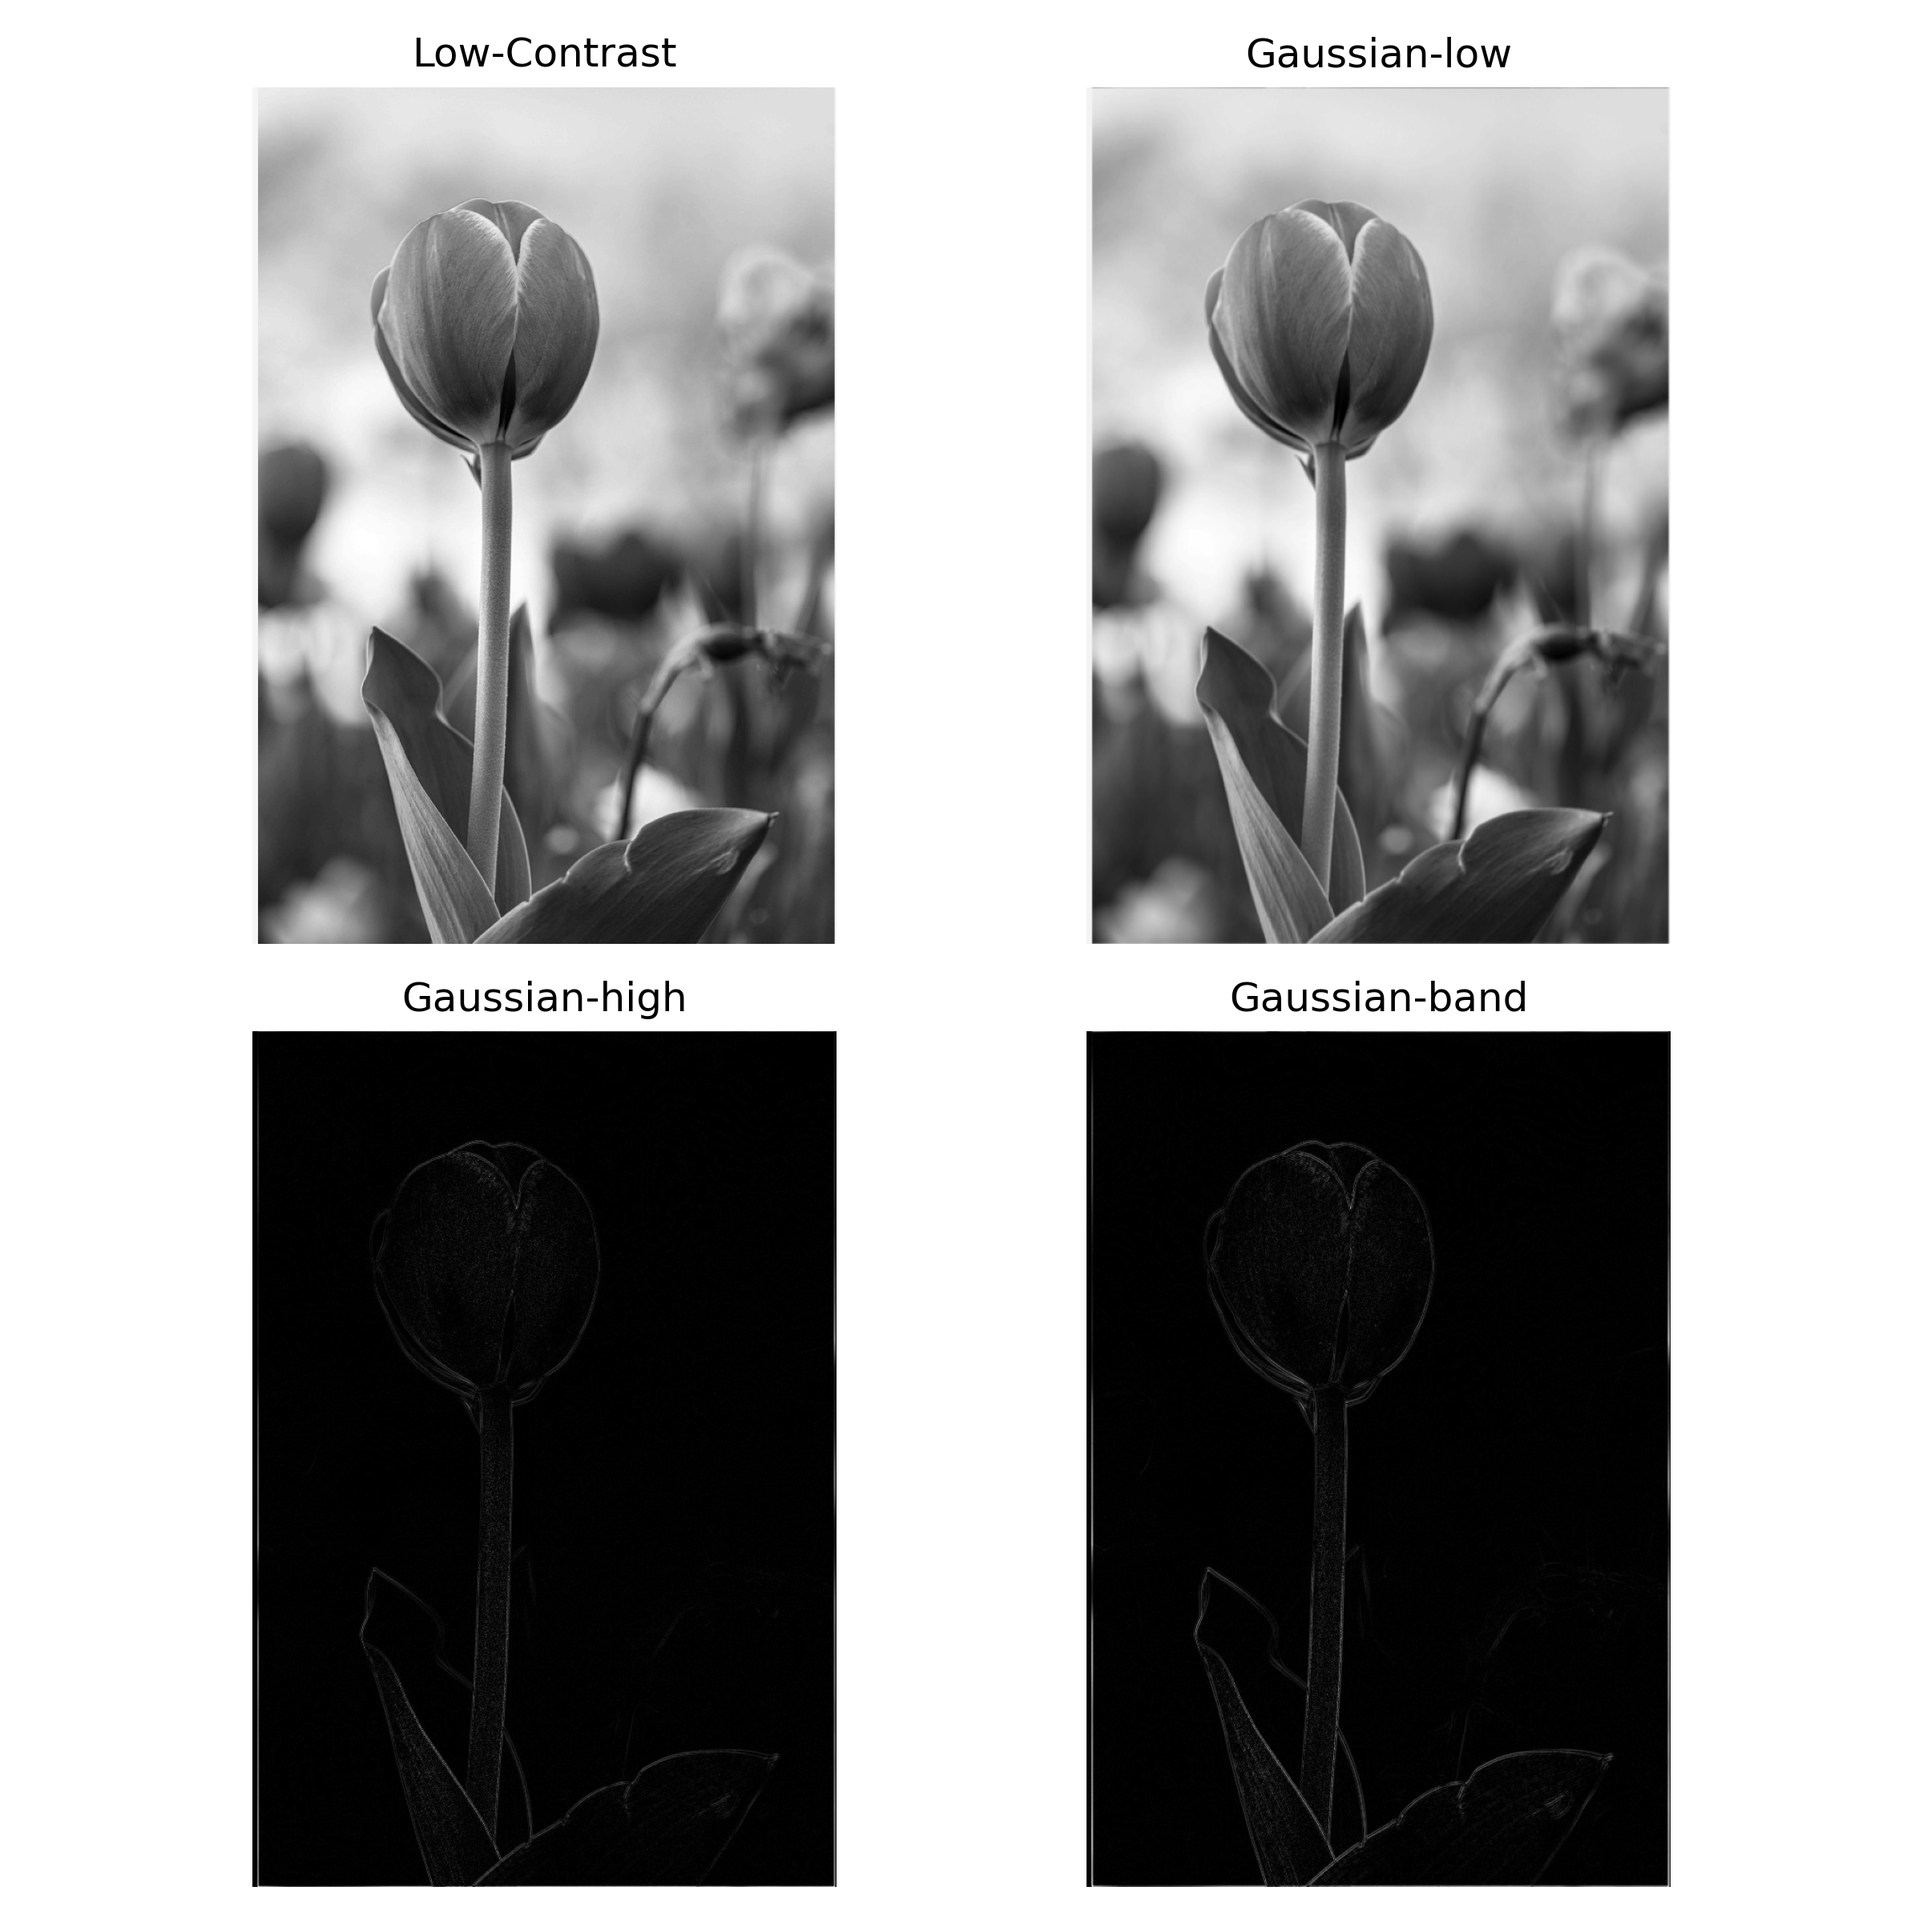
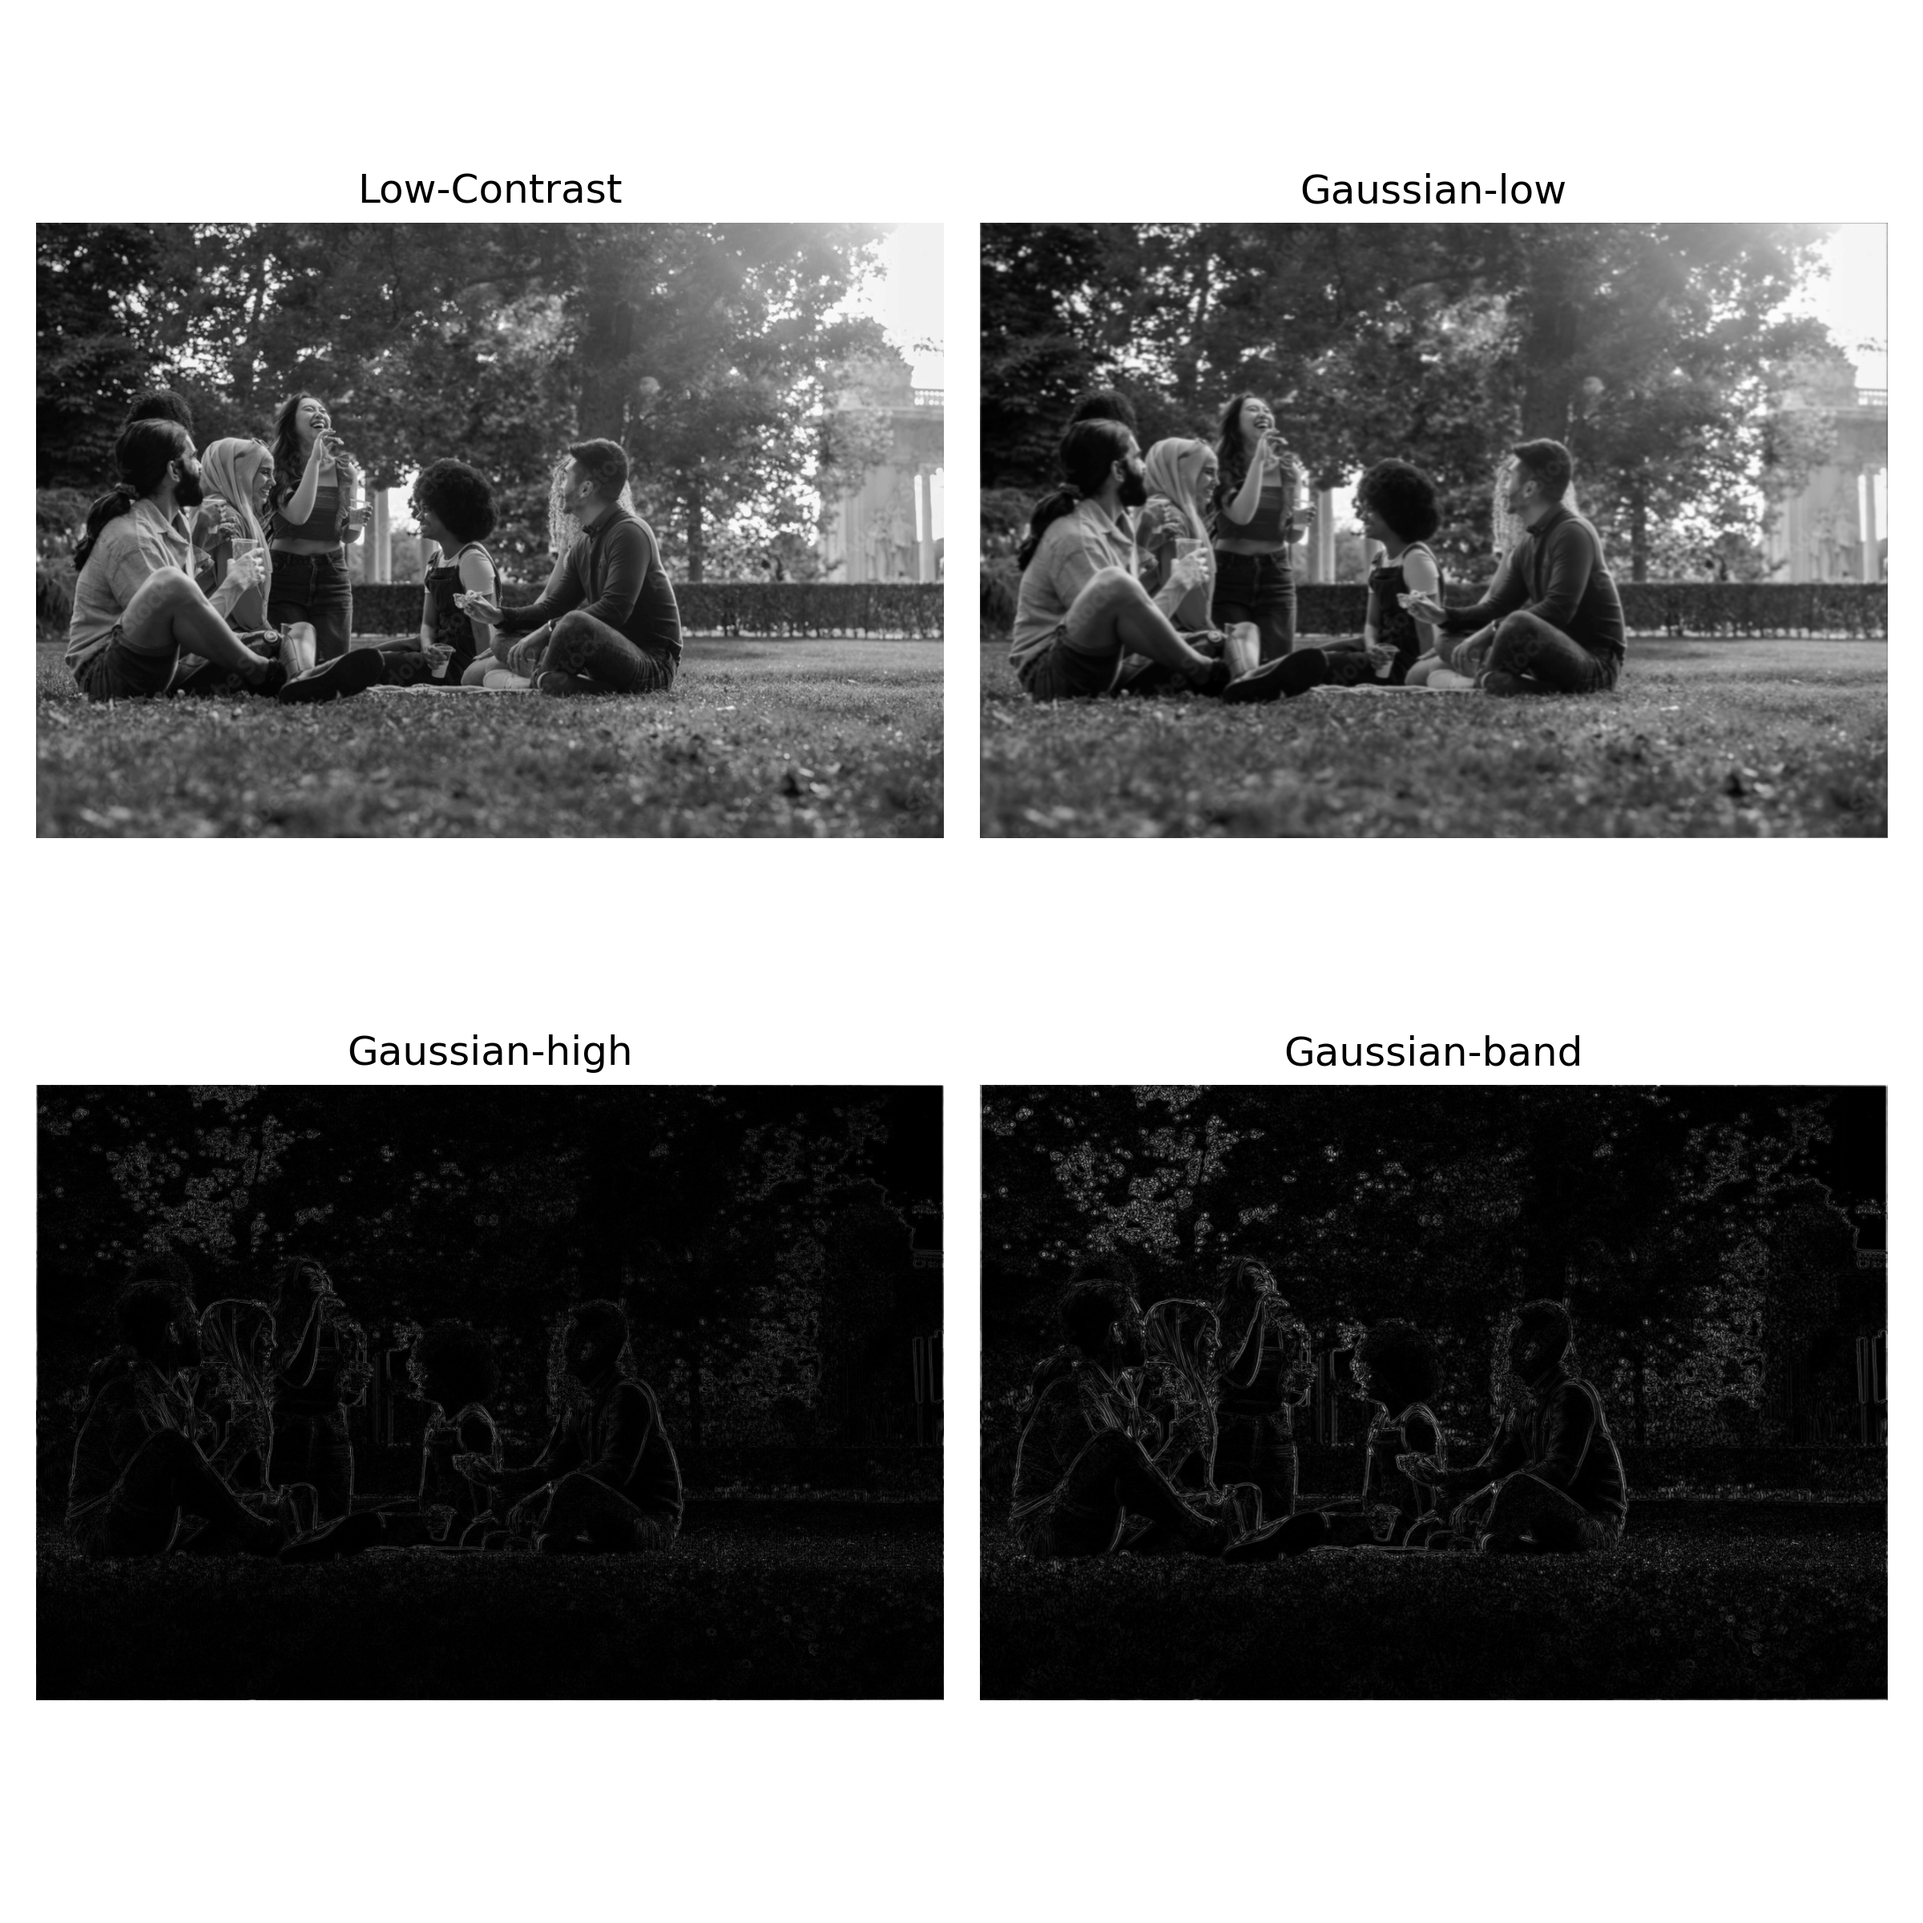
lab

diff --git a/self-learning/canny_manualy.py b/self-learning/canny_manualy.py
@@ -1,0 +1,109 @@
+import cv2
+import numpy as np
+import matplotlib.pyplot as plt
+
+def gaussian_blur(img, ksize=5, sigma=1.4):
+    return cv2.GaussianBlur(img, (ksize, ksize), sigma)
+
+def sobel_gradients(img):
+    Kx = np.array([[-1,0,1],[-2,0,2],[-1,0,1]])
+    Ky = np.array([[1,2,1],[0,0,0],[-1,-2,-1]])
+
+    Gx = cv2.filter2D(img, -1, Kx)
+    Gy = cv2.filter2D(img, -1, Ky)
+
+    magnitude = np.hypot(Gx, Gy)
+    magnitude = magnitude / magnitude.max() * 255
+    angle = np.arctan2(Gy, Gx)
+    return magnitude, angle
+
+def non_max_suppression(magnitude, angle):
+    H, W = magnitude.shape
+    Z = np.zeros((H,W), dtype=np.int32)
+    angle = angle * 180. / np.pi
+    angle[angle < 0] += 180
+
+    for i in range(1,H-1):
+        for j in range(1,W-1):
+            q, r = 255, 255
+            # angle 0
+            if (0 <= angle[i,j] < 22.5) or (157.5 <= angle[i,j] <= 180):
+                q = magnitude[i, j+1]
+                r = magnitude[i, j-1]
+            # angle 45
+            elif (22.5 <= angle[i,j] < 67.5):
+                q = magnitude[i+1, j-1]
+                r = magnitude[i-1, j+1]
+            # angle 90
+            elif (67.5 <= angle[i,j] < 112.5):
+                q = magnitude[i+1, j]
+                r = magnitude[i-1, j]
+            # angle 135
+            elif (112.5 <= angle[i,j] < 157.5):
+                q = magnitude[i-1, j-1]
+                r = magnitude[i+1, j+1]
+
+            if (magnitude[i,j] >= q) and (magnitude[i,j] >= r):
+                Z[i,j] = magnitude[i,j]
+            else:
+                Z[i,j] = 0
+    return Z
+
+def double_threshold(img, low, high):
+    strong = 255
+    weak = 50
+    res = np.zeros_like(img)
+
+    strong_i, strong_j = np.where(img >= high)
+    weak_i, weak_j = np.where((img <= high) & (img >= low))
+
+    res[strong_i, strong_j] = strong
+    res[weak_i, weak_j] = weak
+    return res, weak, strong
+
+def hysteresis(img, weak, strong=255):
+    H, W = img.shape
+    for i in range(1, H-1):
+        for j in range(1, W-1):
+            if img[i,j] == weak:
+                if ((img[i+1, j-1] == strong) or (img[i+1, j] == strong) or (img[i+1, j+1] == strong)
+                    or (img[i, j-1] == strong) or (img[i, j+1] == strong)
+                    or (img[i-1, j-1] == strong) or (img[i-1, j] == strong) or (img[i-1, j+1] == strong)):
+                    img[i,j] = strong
+                else:
+                    img[i,j] = 0
+    return img
+
+def canny_edge_detector(img, low=50, high=100):
+    # Step 1: Gaussian Blur
+    blurred = gaussian_blur(img)
+
+    # Step 2: Gradient Magnitude and Direction
+    magnitude, angle = sobel_gradients(blurred)
+
+    # Step 3: Non-Max Suppression
+    nms = non_max_suppression(magnitude, angle)
+
+    # Step 4: Double Threshold
+    dt, weak, strong = double_threshold(nms, low, high)
+
+    # Step 5: Hysteresis
+    final = hysteresis(dt, weak, strong)
+    return final
+
+# RUN
+img = cv2.imread('/Users/akhi/Desktop/DIP/images/people.png', 0)
+edges = canny_edge_detector(img, 50, 100)
+
+plt.figure(figsize=(10,5))
+plt.subplot(1,2,1)
+plt.imshow(img, cmap='gray')
+plt.title("Original Image")
+plt.axis('off')
+
+plt.subplot(1,2,2)
+plt.imshow(edges, cmap='gray')
+plt.title("User-defined Canny Edge Detection")
+plt.axis('off')
+
+plt.show()

diff --git a/self-learning/DWT2.py b/self-learning/DWT2.py
@@ -1,0 +1,88 @@
+import cv2
+import numpy as np
+import matplotlib.pyplot as plt
+import pywt
+
+# ------------------------------
+# Step 1: Load grayscale image
+# ------------------------------
+img = cv2.imread('/Users/akhi/Desktop/DIP/images/HVD.png', cv2.IMREAD_GRAYSCALE)
+
+if img is None:
+    raise FileNotFoundError("Image not found! Check the file path.")
+
+# ------------------------------
+# Step 2: Apply 2D Discrete Wavelet Transform
+# ------------------------------
+LL, (LH, HL, HH) = pywt.dwt2(img, 'haar')
+
+# ------------------------------
+# Step 3: Compute threshold based on LL
+# ------------------------------
+t = np.max(LL) * 0.2   # 20% of max(LL) as threshold
+
+# ------------------------------
+# Step 4: Apply hard thresholding to LH
+# ------------------------------
+LH_thresh = np.where(np.abs(LH) < t, 0, LH)
+
+# ------------------------------
+# Step 5: Reconstruct image from modified coefficients
+# ------------------------------
+coeffs2_thresh = (LL, (LH_thresh, HL, HH))
+img_reconstructed = pywt.idwt2(coeffs2_thresh, 'haar')
+
+# ------------------------------
+# Step 6: Display subbands and results
+# ------------------------------
+plt.figure(figsize=(12, 8))
+
+plt.subplot(2, 3, 1)
+plt.imshow(img, cmap='gray')
+plt.title('Original Image')
+plt.axis('off')
+
+plt.subplot(2, 3, 2)
+plt.imshow(LL, cmap='gray')
+plt.title('LL (Approximation)')
+plt.axis('off')
+
+plt.subplot(2, 3, 3)
+plt.imshow(LH, cmap='gray')
+plt.title('LH (Original Horizontal Detail)')
+plt.axis('off')
+
+plt.subplot(2, 3, 4)
+plt.imshow(LH_thresh, cmap='gray')
+plt.title('LH_thresh (Thresholded LH)')
+plt.axis('off')
+
+plt.subplot(2, 3, 5)
+plt.imshow(HL, cmap='gray')
+plt.title('HL (Vertical Detail)')
+plt.axis('off')
+
+plt.subplot(2, 3, 6)
+plt.imshow(HH, cmap='gray')
+plt.title('HH (Diagonal Detail)')
+plt.axis('off')
+
+plt.tight_layout()
+plt.show()
+
+# ------------------------------
+# Step 7: Display reconstructed image separately
+# ------------------------------
+plt.figure(figsize=(5, 5))
+plt.imshow(img_reconstructed, cmap='gray')
+plt.title('Reconstructed Image (From coeffs2_thresh)')
+plt.axis('off')
+plt.show()
+
+# ------------------------------
+# Step 8: Save reconstructed image
+# ------------------------------
+save_path = '/Users/akhi/Desktop/DIP/images/HVD_reconstructed.png'
+cv2.imwrite(save_path, img_reconstructed)
+
+print(f"✅ Reconstructed image saved successfully at: {save_path}")

diff --git a/self-learning/HomeWork_9.py b/self-learning/HomeWork_9.py
@@ -3,9 +3,7 @@ import numpy as np
 from skimage.exposure import match_histograms
 import matplotlib.pyplot as plt
 
-# -------------------------------
-# 1. Load Images
-# -------------------------------
+# Load Images
 source = cv2.imread("/Users/akhi/Desktop/DIP/images/flower.png", cv2.IMREAD_GRAYSCALE)      # Source image
 reference = cv2.imread("/Users/akhi/Desktop/DIP/images/roses.png", cv2.IMREAD_GRAYSCALE) # Reference image
 
@@ -13,12 +11,12 @@ if source is None or reference is None:
     raise FileNotFoundError("Source or Reference image not found!")
 
 # -------------------------------
-# 2. Built-in Histogram Matching (Scikit-Image)
+# Built-in Histogram Matching (Scikit-Image)
 # -------------------------------
 matched_builtin = match_histograms(source, reference)
 
 # -------------------------------
-# 3. Custom Method 1: CDF-based Histogram Matching
+# Custom Method 1: CDF-based Histogram Matching
 # -------------------------------
 def histogram_matching_cdf(source, reference):
     src_hist, _ = np.histogram(source.flatten(), 256, [0,256])
@@ -34,7 +32,7 @@ def histogram_matching_cdf(source, reference):
 matched_cdf = histogram_matching_cdf(source, reference)
 
 # -------------------------------
-# 4. Custom Method 2: Direct Histogram Specification
+# Custom Method 2: Direct Histogram Specification
 # -------------------------------
 def histogram_matching_direct(source, reference):
     src_values, bin_idx, src_counts = np.unique(source.ravel(), return_inverse=True, return_counts=True)
@@ -69,7 +67,7 @@ high_contrast = adjust_contrast(source, alpha=2.0, beta=0)
 normal_contrast = source.copy()
 
 # -------------------------------
-# 6. Show Results
+# Show Results
 # -------------------------------
 plt.figure(figsize=(15, 8))
 plt.subplot(2, 3, 1); plt.imshow(source, cmap='gray'); plt.title("Source"); plt.axis('off')

diff --git a/self-learning/HW15.py b/self-learning/HW15.py
@@ -19,7 +19,7 @@ img_counter = 0
 #================= Main Execution Workflow ============================
 def main():
     # Load original grayscale image
-    img = cv2.imread('/Users/akhi/Desktop/DIP/images/tulip.png', 0)
+    img = cv2.imread('/Users/akhi/Desktop/DIP/images/people.png', 0)
 
     # Create contrast variants
     low_img = cv2.convertScaleAbs(img, alpha=0.5, beta=40)   # Low contrast
@@ -219,7 +219,7 @@ def display_2(img_set, titles):
     plt.show()
     plt.close()
 
-
+    plt.tight_layout()
 #================= Run Script ========================================
 if __name__ == "__main__":
     main()

diff --git a/Lab/Kernel Implementation (no weight).py b/Lab/Kernel Implementation (no weight).py
@@ -4,7 +4,7 @@ import numpy as np
 
 def main():
     # Read the image in grayscale
-    img_gray = cv2.imread("/Users/akhi/Desktop/DIP/images/FLOWER.jpeg", 0)
+    img_gray = cv2.imread("/Users/akhi/Desktop/DIP/images/HVD.png", 0)
     if img_gray is None:
         raise FileNotFoundError("Image not found! Check the path carefully.")
 
@@ -92,7 +92,7 @@ def manual_filter(input_img, kernel):
 
 
 def display(img_set, img_title):
-    plt.figure(figsize=(8, 8))
+    plt.figure(figsize=(10, 10))
     for i in range(len(img_set)):
         plt.subplot(5, 4, i + 1)
         plt.imshow(img_set[i], cmap='gray')
